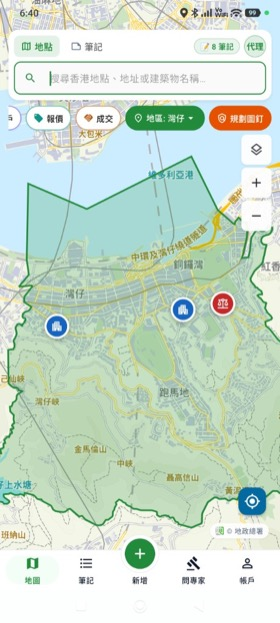
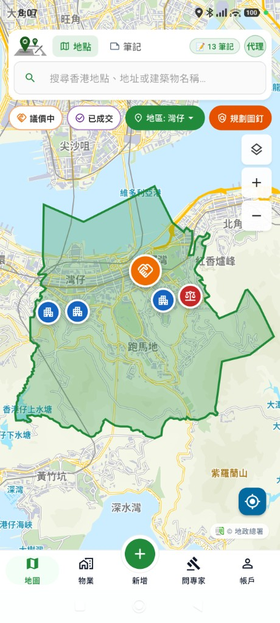
Replace feature-2 planning screenshots with Wan Chai map and case detail.
The TPB pin map and case sheet still showed the old UI; swap the PNG/WebP srcset so the showcase matches the current overlay and A/H5/422 sheet.

diff --git a/index.html b/index.html
@@ -247,12 +247,12 @@
               <!-- Planning applications: district pin map + case detail pair. -->
               <div class="showcase-duo">
                 <picture class="phone-frame">
-                  <source type="image/webp" srcset="./assets/feature-planning-pins-280.webp 280w, ./assets/feature-planning-pins-460.webp 460w" sizes="(max-width: 860px) 42vw, 240px" />
-                  <img src="./assets/feature-planning-pins-460.png" srcset="./assets/feature-planning-pins-280.png 280w, ./assets/feature-planning-pins-460.png 460w" sizes="(max-width: 860px) 42vw, 240px" width="460" height="1024" data-i18n-alt="home.f2Alt" alt="App 截圖：各區城規會規劃申請釘在地圖上" loading="lazy" decoding="async" />
+                  <source type="image/webp" srcset="./assets/feature-planning-pins-280.webp?v=20260916a 280w, ./assets/feature-planning-pins-460.webp?v=20260916a 460w" sizes="(max-width: 860px) 42vw, 240px" />
+                  <img src="./assets/feature-planning-pins-460.png?v=20260916a" srcset="./assets/feature-planning-pins-280.png?v=20260916a 280w, ./assets/feature-planning-pins-460.png?v=20260916a 460w" sizes="(max-width: 860px) 42vw, 240px" width="460" height="1024" data-i18n-alt="home.f2Alt" alt="App 截圖：各區城規會規劃申請釘在地圖上" loading="lazy" decoding="async" />
                 </picture>
                 <picture class="phone-frame">
-                  <source type="image/webp" srcset="./assets/feature-planning-detail-280.webp 280w, ./assets/feature-planning-detail-460.webp 460w" sizes="(max-width: 860px) 42vw, 240px" />
-                  <img src="./assets/feature-planning-detail-460.png" srcset="./assets/feature-planning-detail-280.png 280w, ./assets/feature-planning-detail-460.png 460w" sizes="(max-width: 860px) 42vw, 240px" width="460" height="1024" data-i18n-alt="home.f2bAlt" alt="App 截圖：規劃申請個案詳情、申請用途與附件" loading="lazy" decoding="async" />
+                  <source type="image/webp" srcset="./assets/feature-planning-detail-280.webp?v=20260916a 280w, ./assets/feature-planning-detail-460.webp?v=20260916a 460w" sizes="(max-width: 860px) 42vw, 240px" />
+                  <img src="./assets/feature-planning-detail-460.png?v=20260916a" srcset="./assets/feature-planning-detail-280.png?v=20260916a 280w, ./assets/feature-planning-detail-460.png?v=20260916a 460w" sizes="(max-width: 860px) 42vw, 240px" width="460" height="1024" data-i18n-alt="home.f2bAlt" alt="App 截圖：規劃申請個案詳情、申請用途與附件" loading="lazy" decoding="async" />
                 </picture>
               </div>
             </div>
